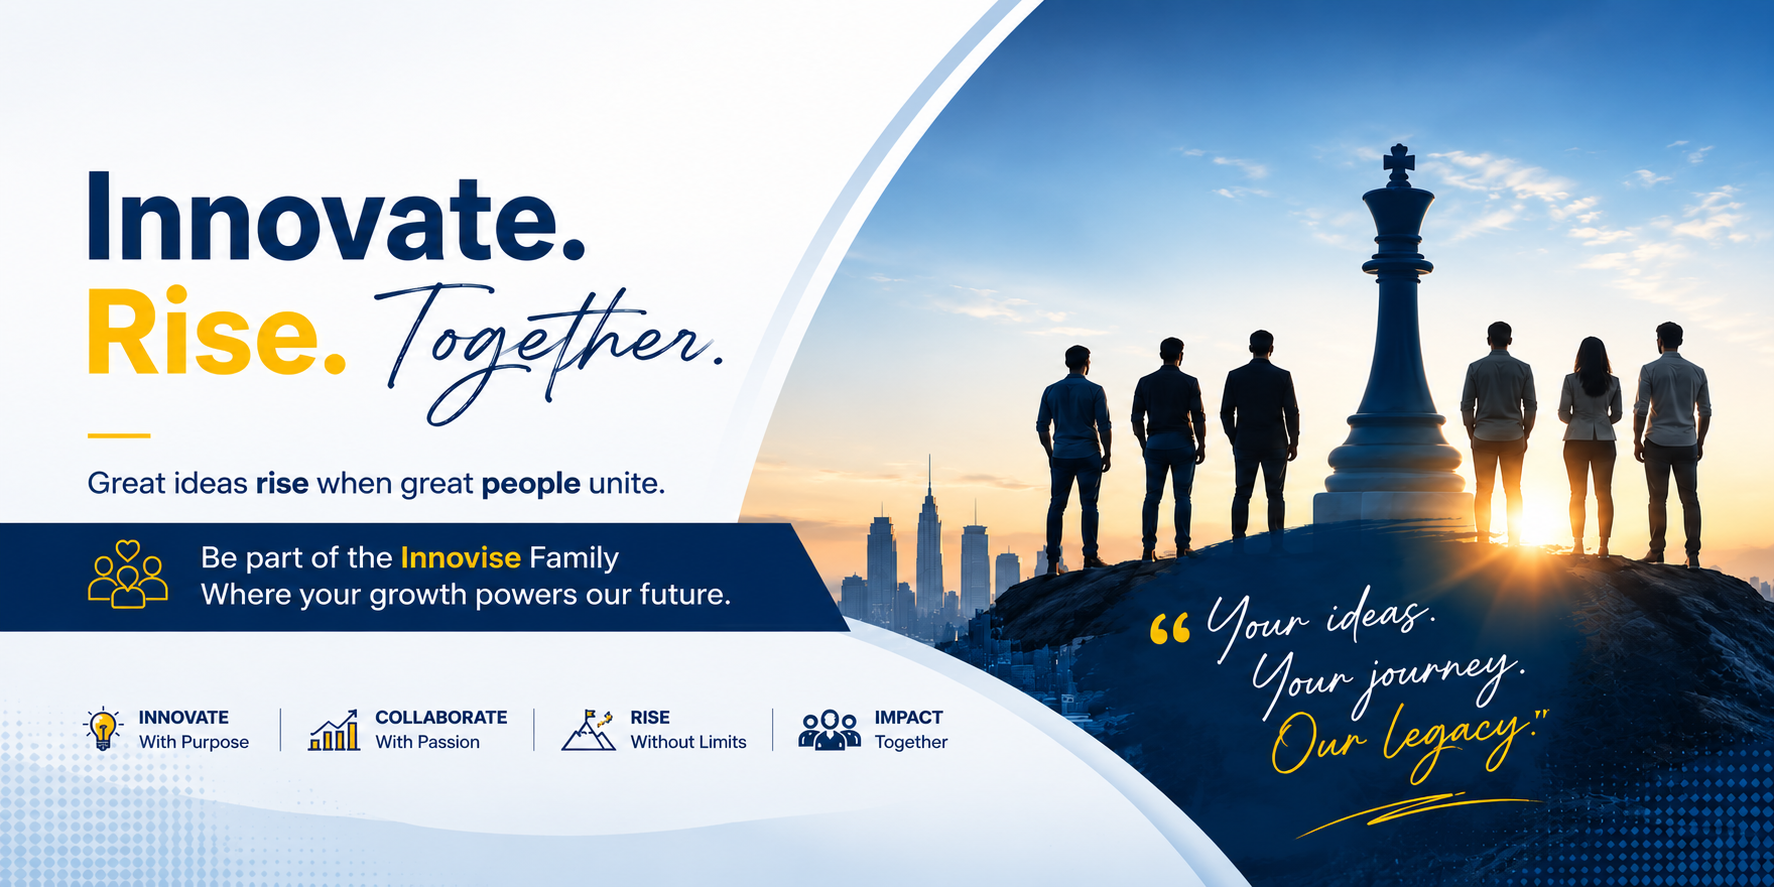
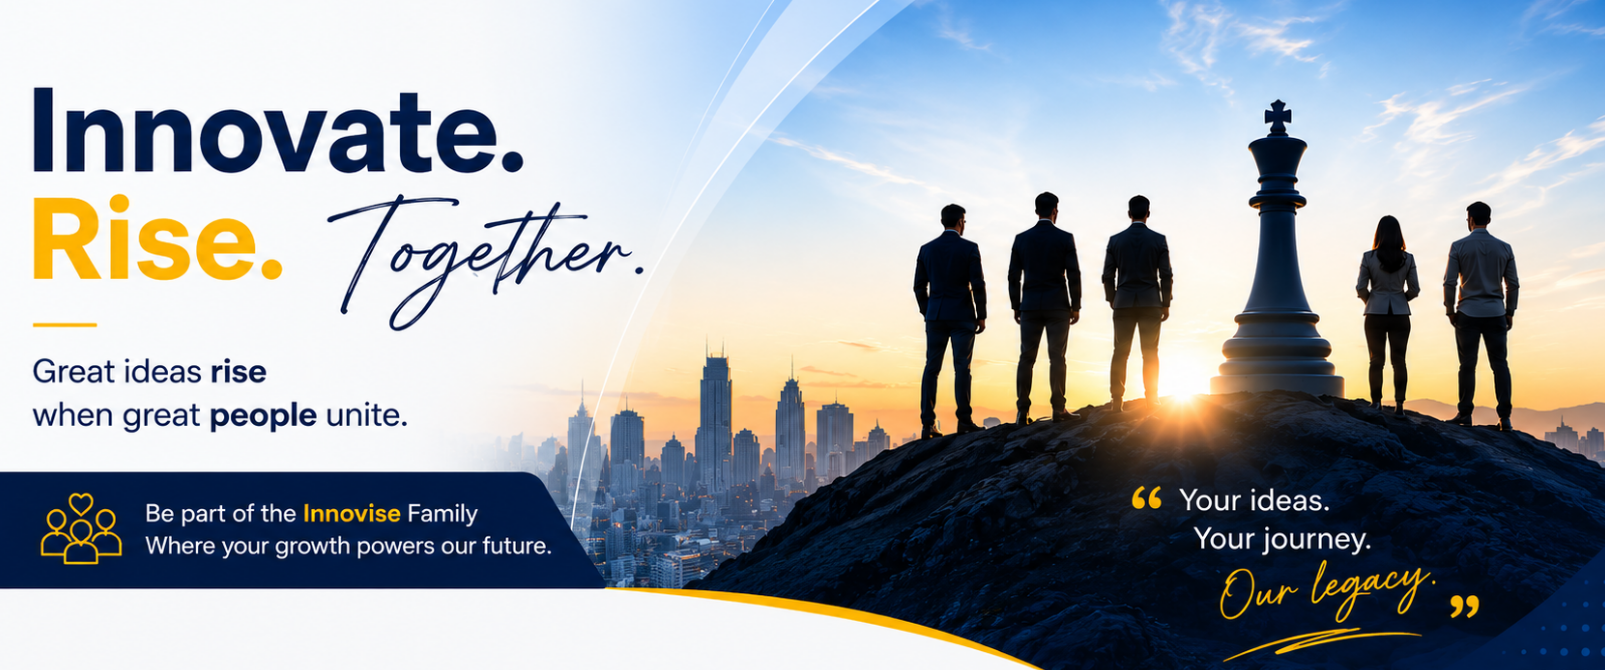
careers page ui updated

diff --git a/src/components/careers/JobCard.jsx b/src/components/careers/JobCard.jsx
@@ -1,3 +1,65 @@
+// import React, { memo } from "react";
+// import { useNavigate } from "react-router-dom";
+// import {
+//   FaArrowRight,
+//   FaMapMarkerAlt,
+//   FaBriefcase,
+//   FaClock,
+// } from "react-icons/fa";
+// import { COLORS } from "../../constants/careersConstants";
+// import { Badge } from "../common/Badge";
+
+// const JobCard = memo(({ job }) => {
+//   const navigate = useNavigate();
+//   return (
+//     <div
+//       onClick={() => navigate(`/careers/jobdetails/${job.id}`)}
+//       className="group bg-white border border-[#E5E7EB] rounded-2xl p-6 cursor-pointer transition-all duration-[250ms] ease-out hover:-translate-y-1.5 hover:shadow-xl hover:border-[#12324f]"
+//     >
+//       <div className="flex justify-between items-start mb-4">
+//         <div>
+//           <h3 className="text-lg font-bold text-[#111827] mb-1">{job.title}</h3>
+//           <p className="text-sm text-[#6B7280]">• {job.department}</p>
+//         </div>
+//         <FaArrowRight className="text-[#9CA3AF] group-hover:text-[#12324f] group-hover:translate-x-1 transition-all duration-[250ms]" />
+//       </div>
+//       <div className="flex flex-wrap gap-3 mb-5 text-xs text-[#6B7280]">
+//         <span className="inline-flex items-center gap-1.5">
+//           <FaMapMarkerAlt /> {job.location}
+//         </span>
+//         {job.employmentType && (
+//           <span className="inline-flex items-center gap-1.5">
+//             <FaBriefcase /> {job.employmentType}
+//           </span>
+//         )}
+//         {job.workModel && (
+//           <span className="inline-flex items-center gap-1.5">
+//             <FaClock /> {job.workModel}
+//           </span>
+//         )}
+//       </div>
+//       <div className="border-t border-[#F3F4F6] pt-4 flex items-center justify-between">
+//         <div>
+//           <p className="text-sm font-semibold text-[#111827]">
+//             {job.salaryRange || "Salary on request"}
+//           </p>
+//           {job.postedDate && (
+//             <p className="text-xs text-[#9CA3AF] mt-0.5">
+//               Posted {job.postedDate}
+//             </p>
+//           )}
+//         </div>
+//         {job.hiringStatus === "Actively Hiring" ? (
+//           <Badge color={COLORS.success}>Actively Hiring</Badge>
+//         ) : (
+//           <Badge color={COLORS.warning}>Reviewing</Badge>
+//         )}
+//       </div>
+//     </div>
+//   );
+// });
+// export default JobCard;
+
 import React, { memo } from "react";
 import { useNavigate } from "react-router-dom";
 import {
@@ -11,53 +73,77 @@ import { Badge } from "../common/Badge";
 
 const JobCard = memo(({ job }) => {
   const navigate = useNavigate();
+
   return (
     <div
       onClick={() => navigate(`/careers/jobdetails/${job.id}`)}
-      className="group bg-white border border-[#E5E7EB] rounded-2xl p-6 cursor-pointer transition-all duration-[250ms] ease-out hover:-translate-y-1.5 hover:shadow-xl hover:border-[#12324f]"
+      className="group relative flex flex-col justify-between bg-white border border-gray-200/80 rounded-2xl p-6 cursor-pointer transition-all duration-300 ease-out hover:shadow-[0_12px_40px_-12px_rgba(18,50,79,0.15)] hover:border-[#12324f]/40 hover:-translate-y-1"
     >
-      <div className="flex justify-between items-start mb-4">
-        <div>
-          <h3 className="text-lg font-bold text-[#111827] mb-1">{job.title}</h3>
-          <p className="text-sm text-[#6B7280]">
-            {job.department} • {job.team}
+      {/* Top Section: Visual Anchor & Title */}
+      <div className="flex items-start gap-4 mb-5">
+        {/* Visual Anchor Icon */}
+        <div className="flex-shrink-0 w-12 h-12 rounded-xl bg-[#12324f]/5 flex items-center justify-center border border-[#12324f]/10 transition-colors duration-300 group-hover:bg-[#12324f] group-hover:border-[#12324f]">
+          <FaBriefcase className="text-[#12324f] transition-colors duration-300 group-hover:text-white" />
+        </div>
+
+        <div className="flex-1">
+          <h3 className="text-lg font-bold text-gray-900 leading-snug group-hover:text-[#12324f] transition-colors duration-300">
+            {job.title}
+          </h3>
+          <p className="text-sm text-gray-500 font-medium mt-0.5">
+            {job.department}
           </p>
         </div>
-        <FaArrowRight className="text-[#9CA3AF] group-hover:text-[#12324f] group-hover:translate-x-1 transition-all duration-[250ms]" />
       </div>
-      <div className="flex flex-wrap gap-3 mb-5 text-xs text-[#6B7280]">
-        <span className="inline-flex items-center gap-1.5">
-          <FaMapMarkerAlt /> {job.location}
-        </span>
+
+      {/* Middle Section: Metadata as Pills */}
+      <div className="flex flex-wrap gap-2 mb-6">
+        {job.location && (
+          <span className="inline-flex items-center gap-1.5 px-3 py-1.5 bg-gray-50 text-gray-600 text-xs font-medium rounded-full border border-gray-100">
+            <FaMapMarkerAlt className="text-gray-400" /> {job.location}
+          </span>
+        )}
         {job.employmentType && (
-          <span className="inline-flex items-center gap-1.5">
-            <FaBriefcase /> {job.employmentType}
+          <span className="inline-flex items-center gap-1.5 px-3 py-1.5 bg-gray-50 text-gray-600 text-xs font-medium rounded-full border border-gray-100">
+            <FaBriefcase className="text-gray-400" /> {job.employmentType}
           </span>
         )}
         {job.workModel && (
-          <span className="inline-flex items-center gap-1.5">
-            <FaClock /> {job.workModel}
+          <span className="inline-flex items-center gap-1.5 px-3 py-1.5 bg-gray-50 text-gray-600 text-xs font-medium rounded-full border border-gray-100">
+            <FaClock className="text-gray-400" /> {job.workModel}
           </span>
         )}
       </div>
-      <div className="border-t border-[#F3F4F6] pt-4 flex items-center justify-between">
+
+      {/* Bottom Section: Salary & Action */}
+      <div className="mt-auto border-t border-gray-100 pt-4 flex items-center justify-between">
         <div>
-          <p className="text-sm font-semibold text-[#111827]">
+          <p className="text-sm font-bold text-gray-900">
             {job.salaryRange || "Salary on request"}
           </p>
           {job.postedDate && (
-            <p className="text-xs text-[#9CA3AF] mt-0.5">
+            <p className="text-xs text-gray-400 mt-1 flex items-center gap-1">
+              <span className="w-1 h-1 rounded-full bg-gray-300"></span>
               Posted {job.postedDate}
             </p>
           )}
         </div>
-        {job.hiringStatus === "Actively Hiring" ? (
-          <Badge color={COLORS.success}>Actively Hiring</Badge>
-        ) : (
-          <Badge color={COLORS.warning}>Reviewing</Badge>
-        )}
+
+        <div className="flex items-center gap-3">
+          {job.hiringStatus === "Actively Hiring" ? (
+            <Badge color={COLORS.success}>Actively Hiring</Badge>
+          ) : (
+            <Badge color={COLORS.warning}>Reviewing</Badge>
+          )}
+
+          {/* Animated Circular Arrow */}
+          <div className="w-9 h-9 rounded-full flex items-center justify-center bg-gray-50 text-gray-400 border border-gray-100 transition-all duration-300 group-hover:bg-[#12324f] group-hover:text-white group-hover:border-[#12324f] group-hover:rotate-[-45deg]">
+            <FaArrowRight className="text-xs" />
+          </div>
+        </div>
       </div>
     </div>
   );
 });
+
 export default JobCard;

diff --git a/src/components/careers/LeaderQuoteSection.jsx b/src/components/careers/LeaderQuoteSection.jsx
@@ -4,11 +4,11 @@ import { BRAND } from "../../constants/careersConstants";
 import img1 from "../../assets/leaders/NishantGautam.webp";
 
 const LeaderQuoteSection = memo(() => (
-  <section className="py-12 md:py-12 bg-white relative overflow-hidden">
+  <section className="py-6 md:py-6 bg-white relative overflow-hidden">
     <div className="max-w-8xl mx-auto px-6 lg:px-8 relative z-10">
-      <div className="reveal relative rounded-3xl p-10 md:p-16 overflow-hidden bg-primary-800">
+      <div className="reveal relative rounded-3xl p-8 md:p-10 overflow-hidden bg-primary-800">
         <div
-          className="absolute -top-20 -right-20 w-72 h-72 rounded-full pointer-events-none"
+          className="absolute -top-20 -right-20 w-62 h-62 rounded-full pointer-events-none"
           style={{
             background: BRAND.gold.primary,
             filter: "blur(100px)",
@@ -30,7 +30,7 @@ const LeaderQuoteSection = memo(() => (
           </div>
           <blockquote>
             <p
-              className="text-xl md:text-2xl lg:text-3xl font-light leading-relaxed text-white/90 mb-10"
+              className="text-xl md:text-2xl lg:text-2xl font-light leading-relaxed text-white/90 mb-10"
               style={{ letterSpacing: "-0.01em" }}
             >
               "Technology is meaningful only when it creates lasting value for

diff --git a/src/components/careers/HeroSection.jsx b/src/components/careers/HeroSection.jsx
@@ -2,7 +2,7 @@ import React, { memo } from "react";
 import banner from "../../assets/banners/careers_banner.png";
 
 const HeroSection = memo(() => (
-  <section className="relative h-[26vh] md:h-[60vh] lg:h-[80vh] xl:h-[90vh] overflow-hidden">
+  <section className="relative h-[24vh] md:h-[50vh] lg:h-[75vh] xl:h-[70vh]">
     <img
       src={banner}
       alt="Innovise Career"
